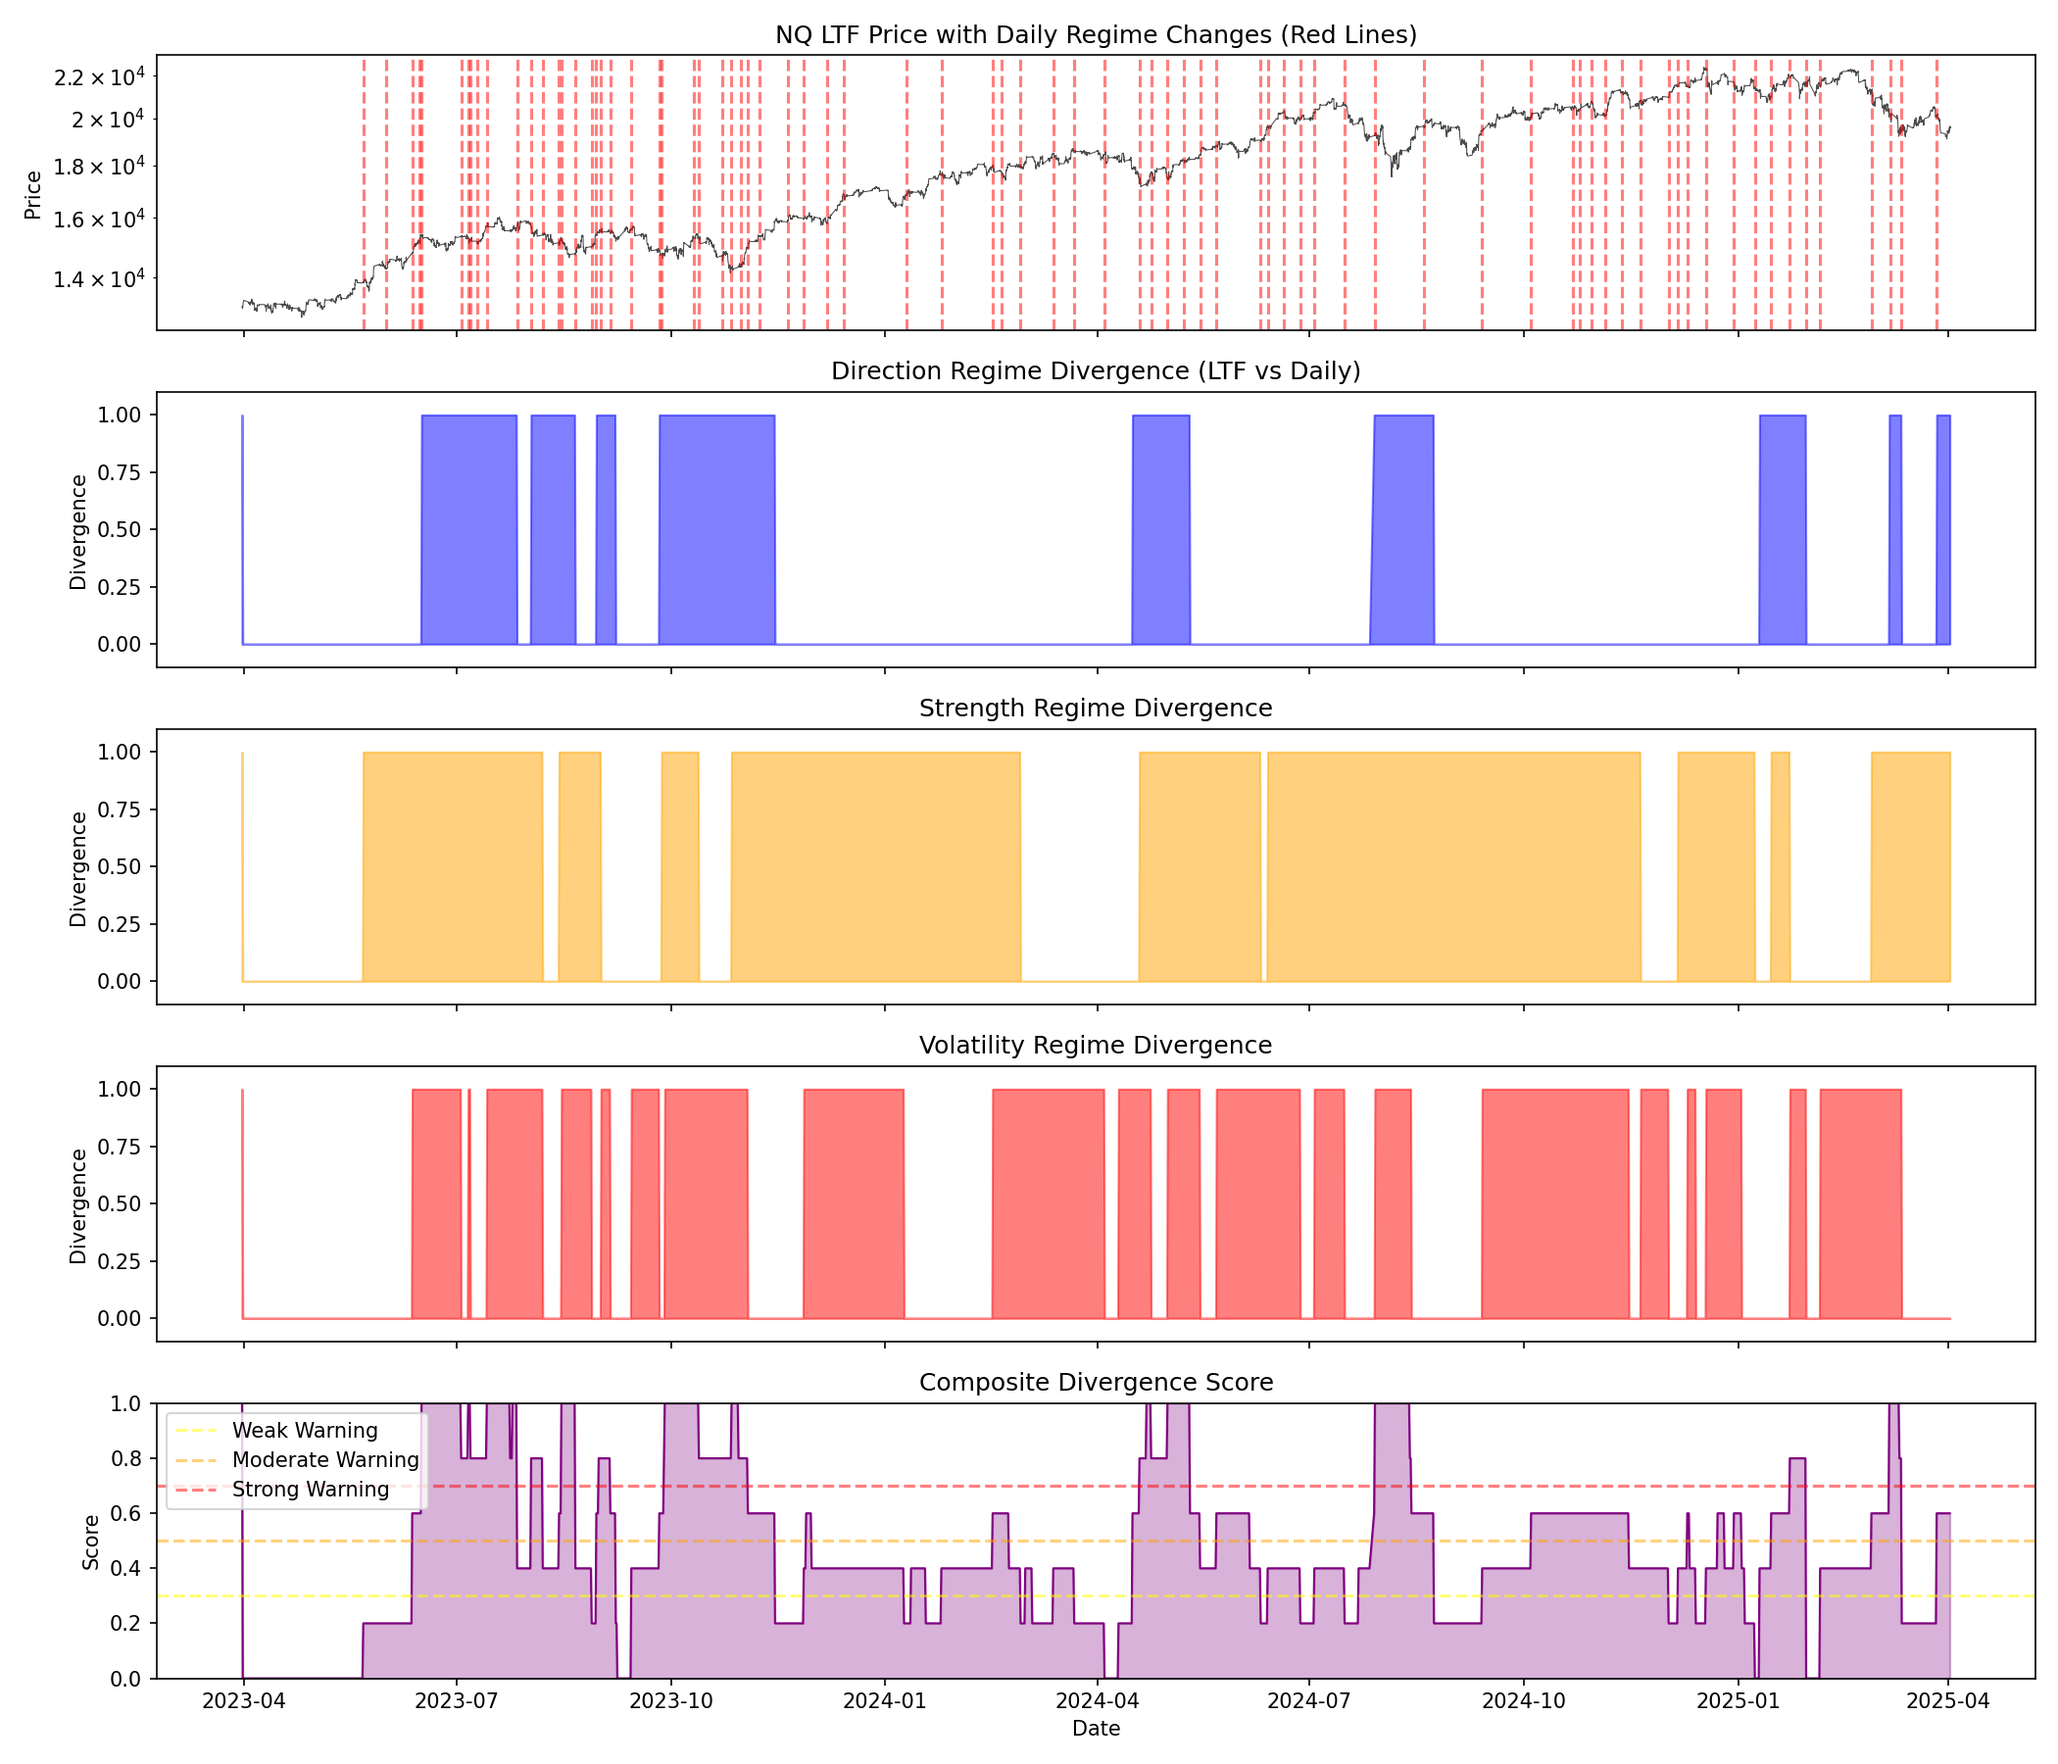
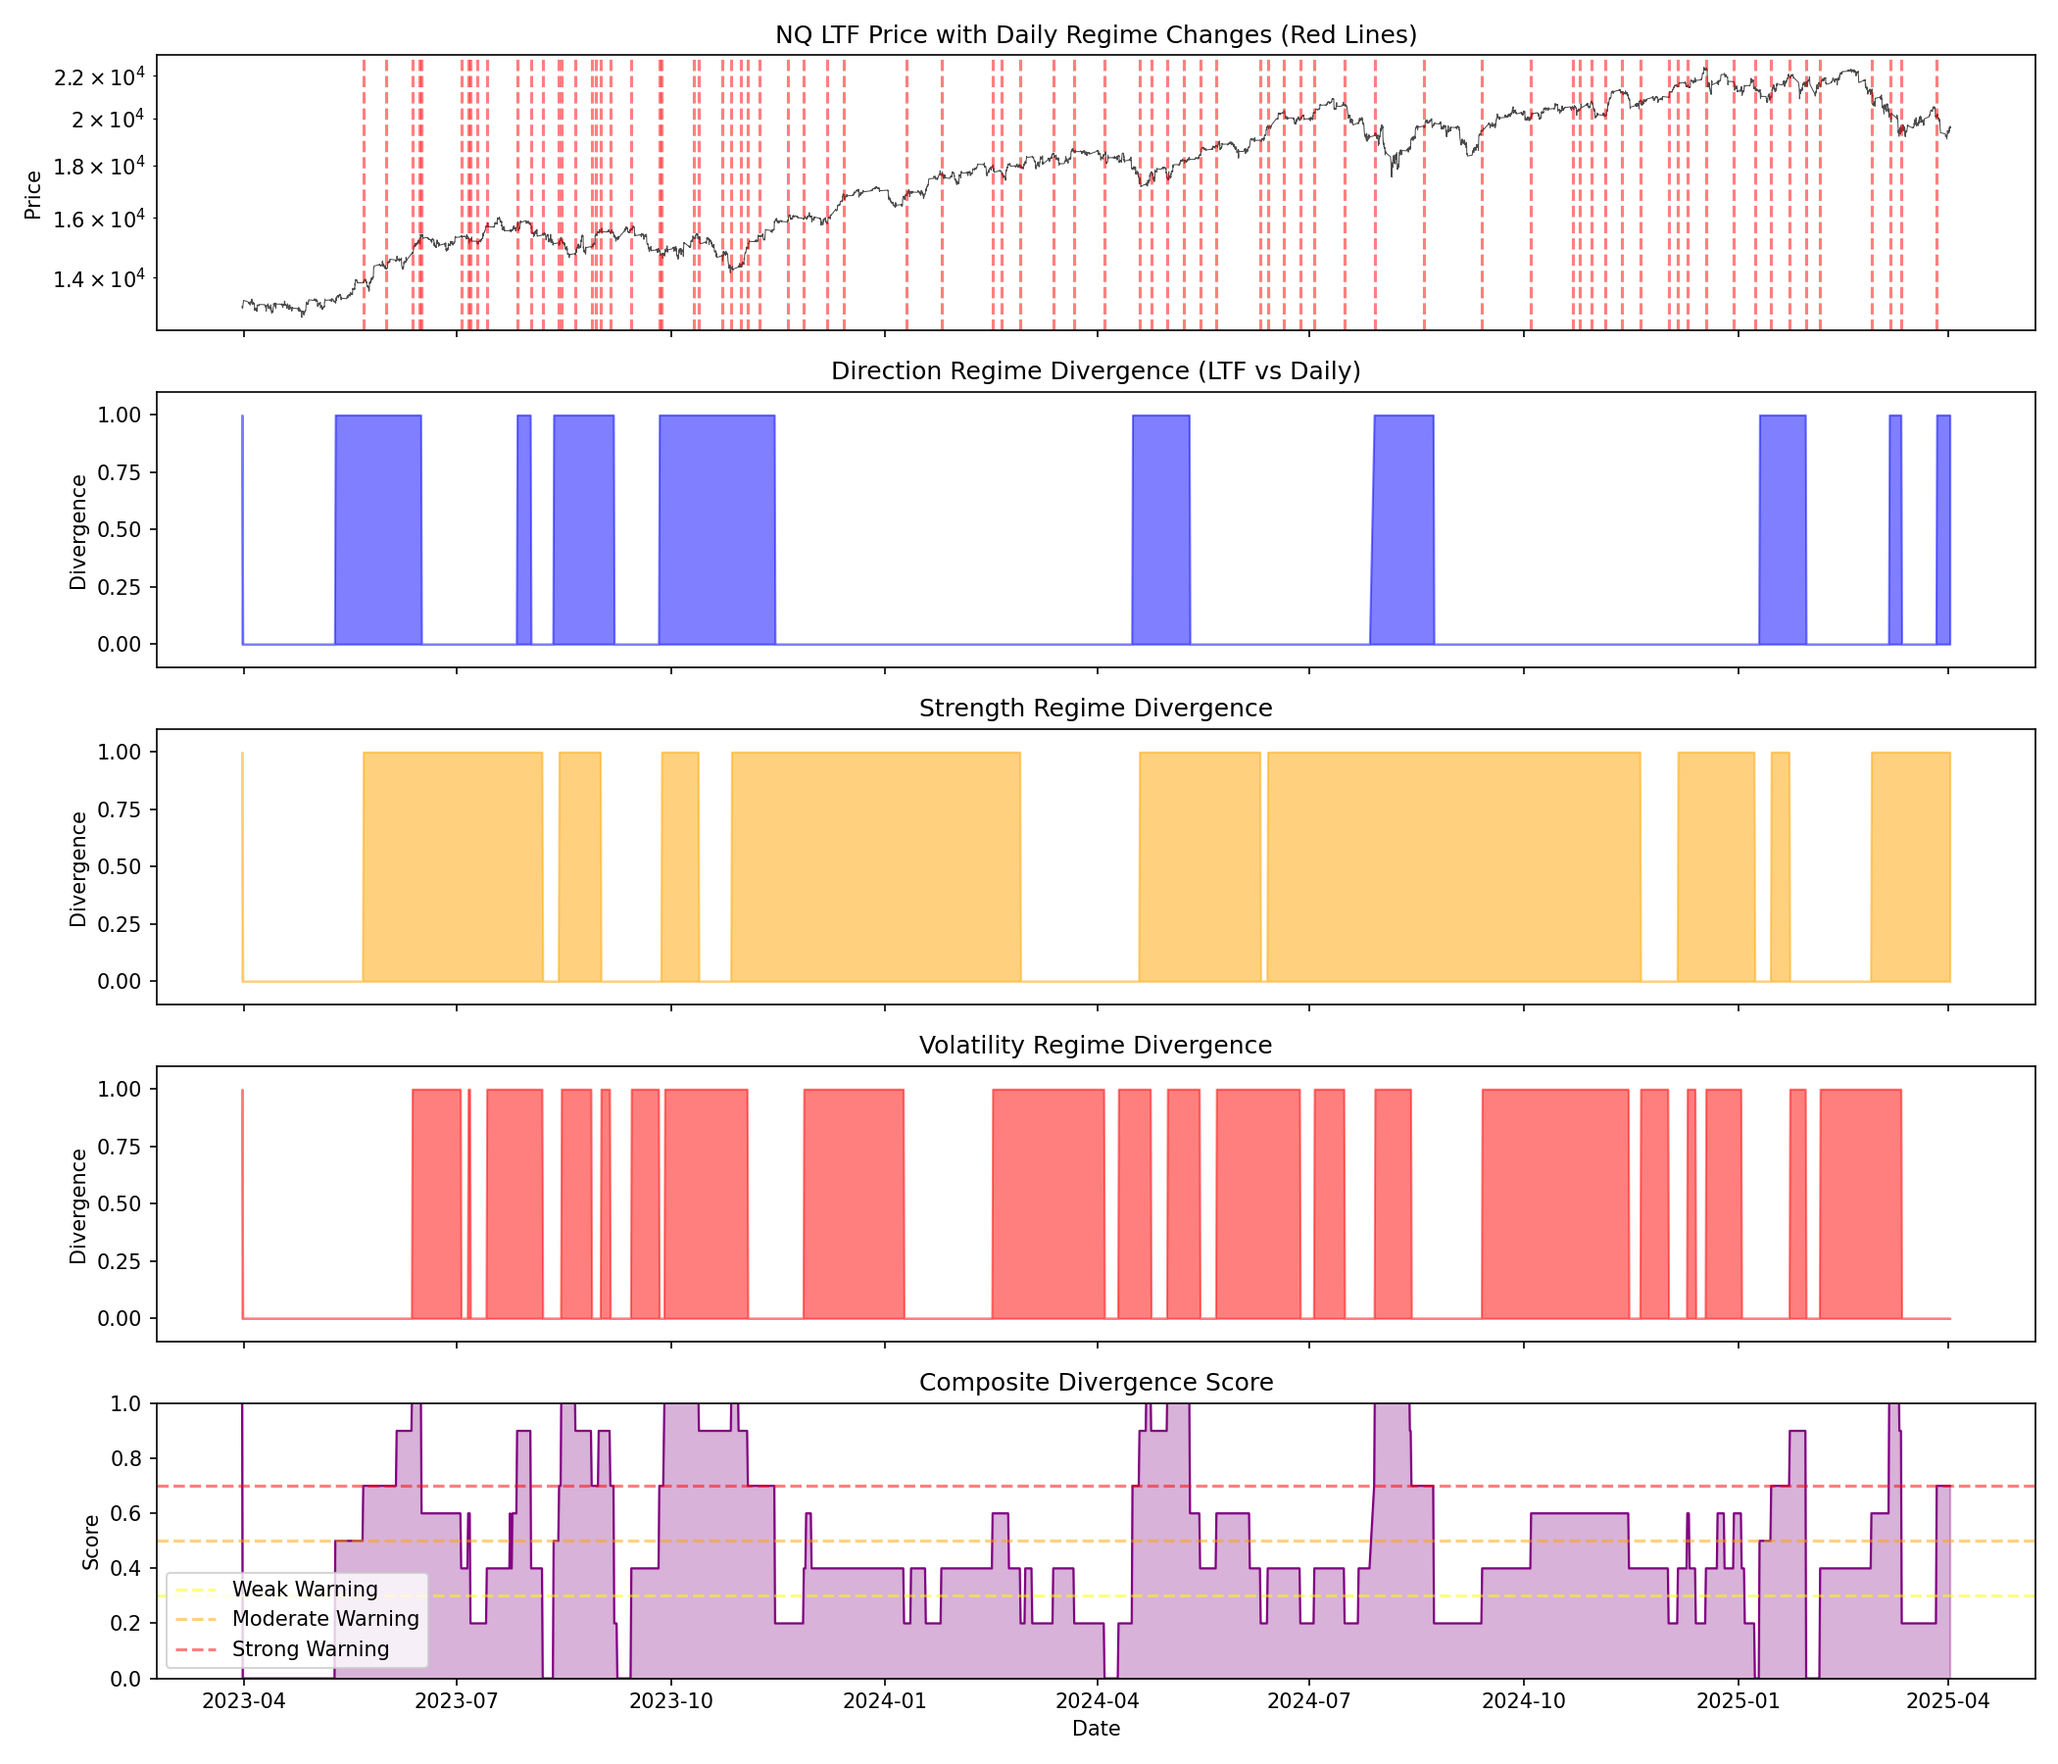
Auto-save-test_hourly_early_warning_system_grok

diff --git a/ob_model/v2.0_precloud_reorganization_and_clean/test_hourly_early_warning_system_grok.py b/ob_model/v2.0_precloud_reorganization_and_clean/test_hourly_early_warning_system_grok.py
@@ -22,6 +22,7 @@ parser.add_argument('--ltf_path', default='combined_NQ_1h_data.csv')  # Assume 1
 parser.add_argument('--timeframes', nargs='+', default=['1H', '4H', '8H'])  # Multiple TFs
 parser.add_argument('--lookback_days', type=int, default=252)
 parser.add_argument('--walk_forward', action='store_true', default=False)  # Toggle walk-forward mode
+parser.add_argument('--wfo', action='store_true', default=False)  # Toggle WFO for per-TF thresholds
 parser.add_argument('--verbose', action='store_true', default=False)  # Toggle verbose logs
 parser.add_argument('--tuning_verbose', action='store_true', default=False)  # Toggle tuning diagnostics
 
@@ -68,6 +69,53 @@ daily_classifier = NQDailyRegimeClassifier(lookback_days=args.lookback_days)
 daily_regimes = daily_classifier.classify_regimes(daily_with_indicators)
 
 thresh = daily_classifier.thresholds  # Use thresholds dict from classifier
+
+if args.wfo:
+    print("\nRunning Walk-Forward Optimization for per-TF thresholds...")
+    # Define grid for thresholds (expand as needed)
+    threshold_grid = {
+        'direction_strong': [0.2, 0.25, 0.3, 0.35],
+        'efficiency_trending': [0.15, 0.2, 0.25, 0.3]
+    }
+    # Split into walks (6mo IS + 3mo OOS, rolling)
+    walk_windows = []
+    start_date = daily_data.index[0]
+    while start_date + pd.DateOffset(months=9) < daily_data.index[-1]:
+        is_end = start_date + pd.DateOffset(months=6)
+        oos_end = is_end + pd.DateOffset(months=3)
+        walk_windows.append((start_date, is_end, oos_end))
+        start_date = is_end
+
+    # Per-TF optimization
+    tf_configs = {}
+    for tf in args.timeframes:
+        best_config = {'thresholds': {}}
+        best_success = 0
+        for dir_strong in threshold_grid['direction_strong']:
+            for eff_trend in threshold_grid['efficiency_trending']:
+                temp_config = {'thresholds': {'direction_strong': dir_strong, 'efficiency_trending': eff_trend}}
+                avg_success = 0
+                for is_start, is_end, oos_end in walk_windows:
+                    is_data = daily_data[(daily_data.index >= is_start) & (daily_data.index < is_end)]
+                    oos_data = daily_data[(daily_data.index >= is_end) & (daily_data.index < oos_end)]
+                    if len(is_data) < 50 or len(oos_data) < 20: continue
+                    temp_classifier = NQDailyRegimeClassifier(lookback_days=args.lookback_days)
+                    temp_classifier.thresholds.update(temp_config['thresholds'])
+                    is_regimes = temp_classifier.classify_regimes(calculate_all_indicators(is_data))
+                    oos_regimes = temp_classifier.classify_regimes(calculate_all_indicators(oos_data))
+                    # Success: % correct shifts (placeholder; refine with your divergence)
+                    oos_shifts = (oos_regimes['composite_regime'] != oos_regimes['composite_regime'].shift()).sum()
+                    predicted_shifts = len(oos_regimes) * 0.1  # Adjust to your logic
+                    success = 1 - abs(oos_shifts - predicted_shifts) / len(oos_regimes)
+                    avg_success += success
+                avg_success /= len(walk_windows) or 1
+                if avg_success > best_success:
+                    best_success = avg_success
+                    best_config = temp_config
+        tf_configs[tf] = best_config
+        print(f"Best config for {tf}: {best_config} (Success: {best_success:.1f}%)")
+else:
+    tf_configs = None
 
 if args.tuning_verbose:
     print("\n============================================================\nTHRESHOLD DIAGNOSTICS FOR TUNING\n============================================================")
@@ -374,7 +422,12 @@ else:
     current_daily_regimes = daily_classifier.classify_regimes(train_daily_with_indicators)
     
     # Initialize ews for each TF
-    ews_list = [LowerTimeframeEarlyWarningSystem(daily_classifier, timeframe=tf) for tf in args.timeframes]
+    ews_list = []
+    for tf in args.timeframes:
+        ews = LowerTimeframeEarlyWarningSystem(daily_classifier, timeframe=tf)
+        if tf_configs and tf in tf_configs:
+            ews.config.update(tf_configs[tf])
+        ews_list.append(ews)
     
     # Incremental loop: Process test data hour by hour
     predictions = []  # Log (time, predicted_shift, actual_shift)
@@ -421,8 +474,18 @@ else:
                     alignment_weight *= 0.8  # Penalty for isolated LTF divergence
             
             # Predicted shift with weighted consensus
-            avg_score = np.mean([d['divergence_score'].iloc[-1] if len(d) > 0 else 0 for d in divergences_list])
-            predicted_shift = (avg_score * alignment_weight) > 0.8
+            tf_weights = {'1H': 0.2, '4H': 0.3, '8H': 0.5}  # Adjust as needed
+            weighted_scores = [divergences_list[j]['divergence_score'].iloc[-1] * tf_weights[args.timeframes[j]] for j in range(len(divergences_list)) if len(divergences_list[j]) > 0]
+            avg_score = np.mean(weighted_scores) if weighted_scores else 0
+            personality_boost = 1.0
+            # Recalc fingerprint every 20 days (dynamic)
+            if (current_time - last_daily_close).days >= 20:
+                recent_daily = cumulative_daily.tail(20)
+                trend_bias = (recent_daily['close'].pct_change() > 0).mean() > 0.6  # Up bias if >60% up days
+                reversion_strength = recent_daily['strength_score'].mean() < 0.3  # Mean reversion if low strength
+                if trend_bias and reversion_strength and daily_regime == 'Uptrend':
+                    personality_boost = 1.5 if np.mean([d['strength_divergence'].iloc[-1] for d in divergences_list]) > 0.7 else 1.0  # Boost for reversion warning
+            predicted_shift = (avg_score * alignment_weight * personality_boost) > 0.8
             
             # Actual shift: Check if tomorrow's regime differs (simulation uses full for "actual")
             daily_date = current_time.date()
